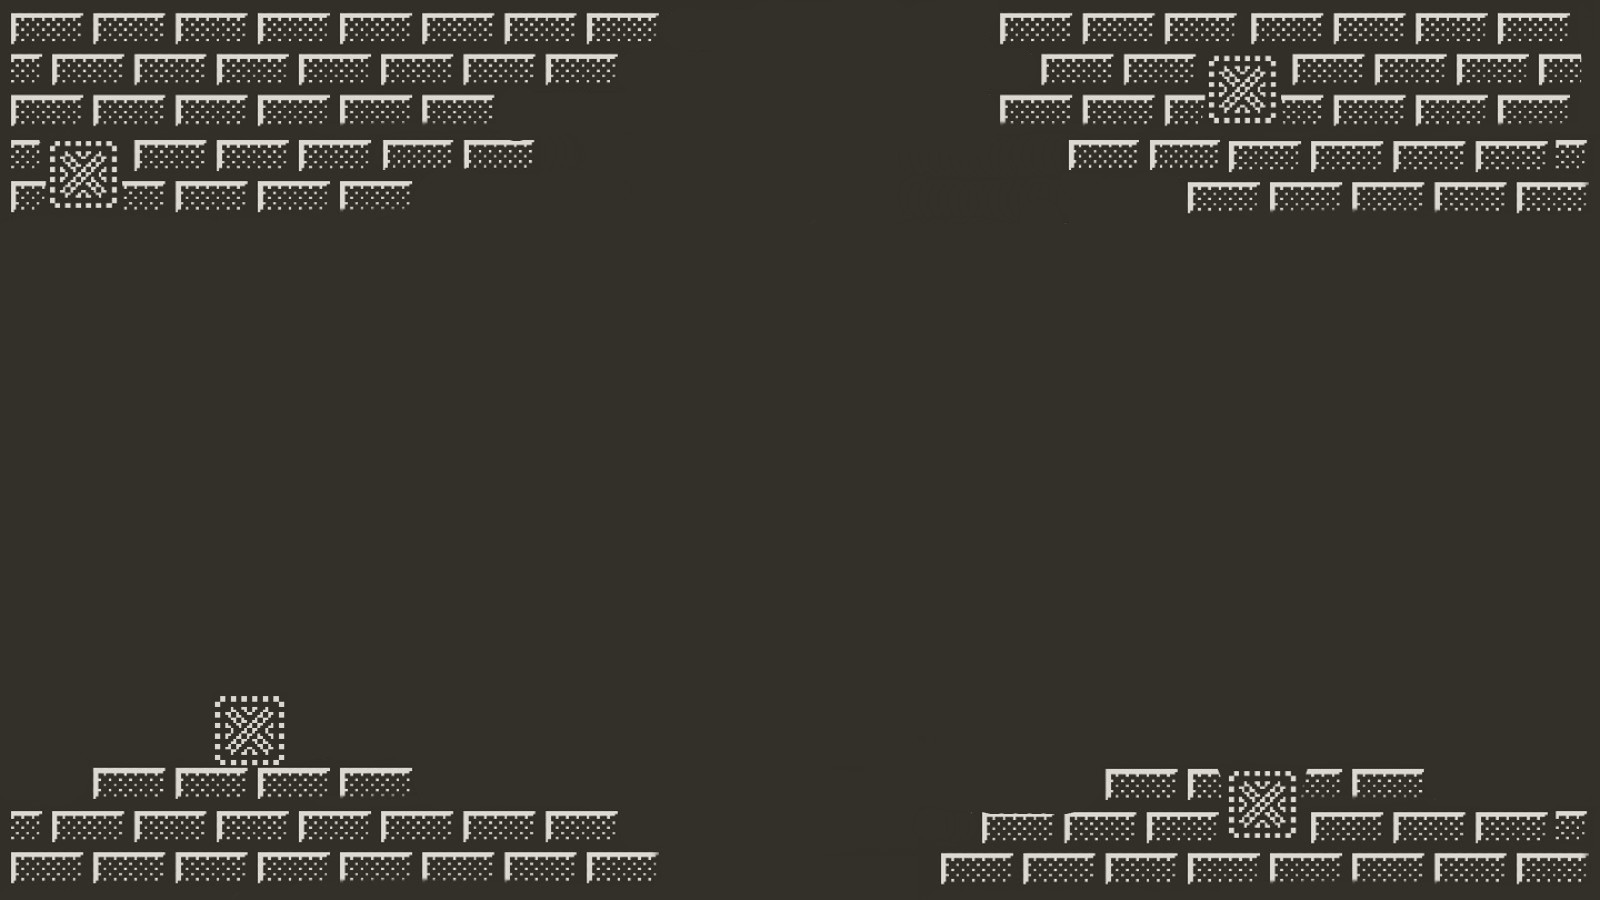
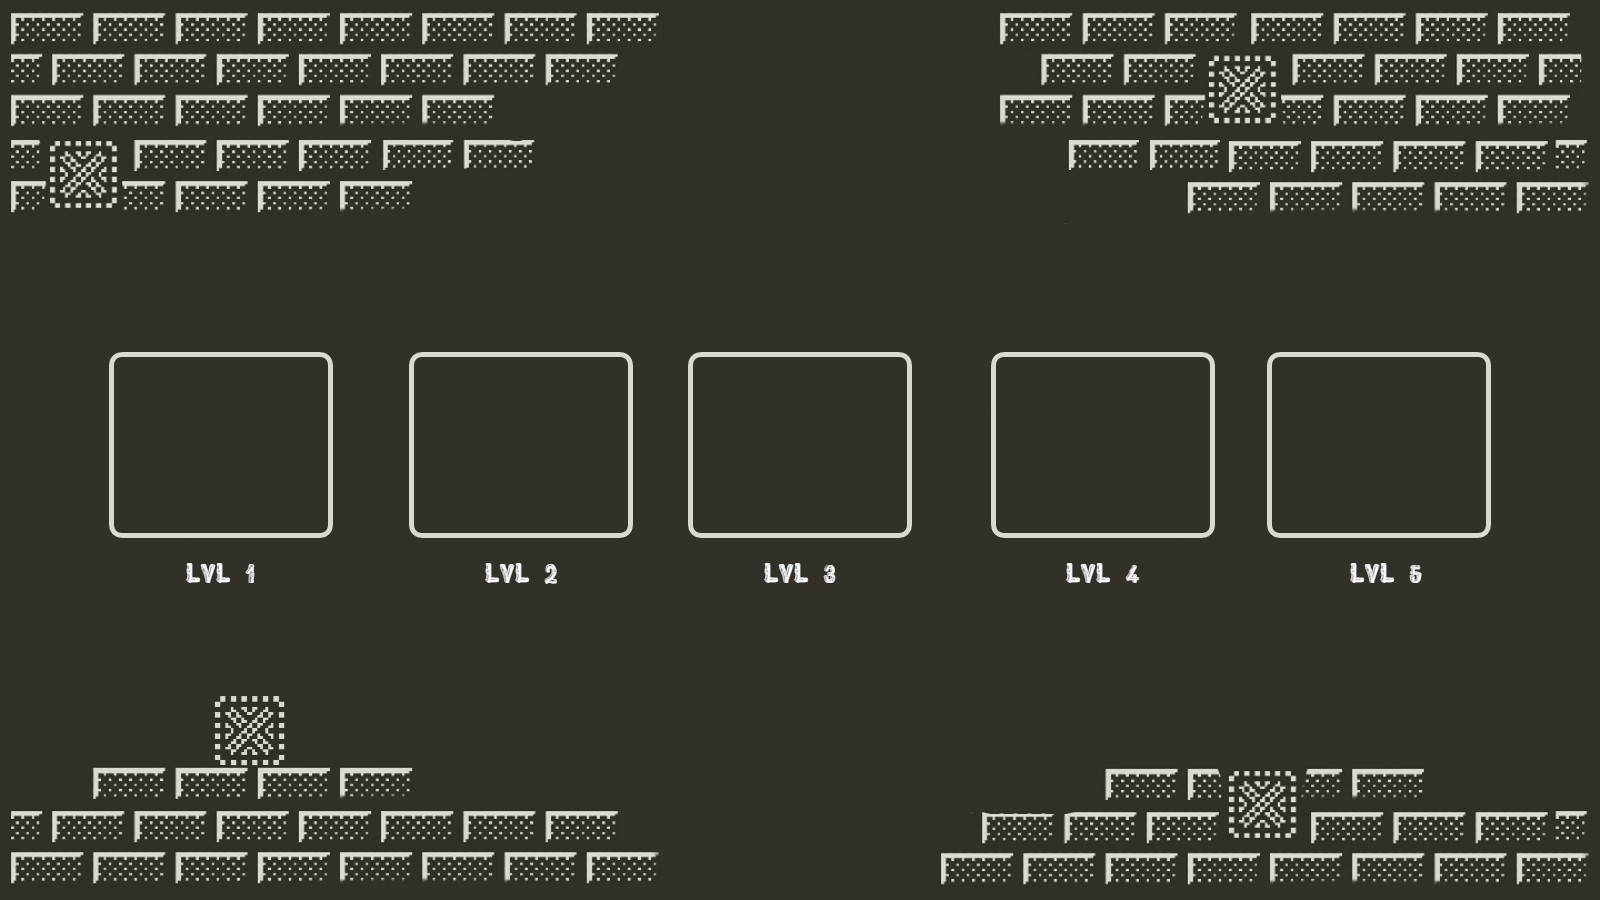
[ADD][FIX] Mecanica para guardar partidas como txt, ademas de la personaliozacion de la vista de elegir nivel

diff --git a/src/main/resources/cr/ac/una/datos/view/Styles.css b/src/main/resources/cr/ac/una/datos/view/Styles.css
@@ -43,7 +43,7 @@
 
 
 
-.image-button {
+.image-button, .image-button:pressed, .image-button:focused, .image-button:hover, .image-button:selected {
     -fx-background-image: url("../resources/btnPlay.png");
     -fx-background-repeat: no-repeat;
     -fx-background-size: contain;
@@ -56,6 +56,36 @@
     -fx-focus-color: transparent;
     -fx-faint-focus-color: transparent;
 }
+
+.imageExitMenu-button, .imageExitMenu-button:pressed, .imageExitMenu-button:focused, .imageExitMenu-button:hover, .imageExitMenu-button:selected {
+    -fx-background-image: url("../resources/btnExitMenu.png");
+    -fx-background-repeat: no-repeat;
+    -fx-background-size: contain;
+    -fx-background-position: center;
+    -fx-background-color: transparent;
+    -fx-border-color: transparent;
+    -fx-padding: 0;
+    -fx-background-radius: 10;
+    -fx-effect: dropshadow(gaussian, rgba(0, 0, 0, 0.75), 10, 0, 0, 2);
+    -fx-focus-color: transparent;
+    -fx-faint-focus-color: transparent;
+}
+
+.imageSavedMatches-button, .imageSavedMatches-button:pressed, .imageSavedMatches-button:focused, .imageSavedMatches-button:hover, .imageSavedMatches-button:selected {
+    -fx-background-image: url("../resources/btnSavedMatches.png");
+    -fx-background-repeat: no-repeat;
+    -fx-background-size: contain;
+    -fx-background-position: center;
+    -fx-background-color: transparent;
+    -fx-border-color: transparent;
+    -fx-padding: 0;
+    -fx-background-radius: 10;
+    -fx-effect: dropshadow(gaussian, rgba(0, 0, 0, 0.75), 10, 0, 0, 2);
+    -fx-focus-color: transparent;
+    -fx-faint-focus-color: transparent;
+}
+
+
 
 .main-backgroundGame {
     -fx-background-color: -fx-game-color;

diff --git a/src/main/java/cr/ac/una/datos/controller/LevelsController.java b/src/main/java/cr/ac/una/datos/controller/LevelsController.java
@@ -5,9 +5,7 @@ import cr.ac.una.datos.util.AppContext;
 import cr.ac.una.datos.util.FlowController;
 import cr.ac.una.datos.util.Mensaje;
 
-import java.io.BufferedReader;
-import java.io.FileReader;
-import java.io.IOException;
+import java.io.*;
 import java.net.URL;
 import java.util.ArrayList;
 import java.util.List;
@@ -16,6 +14,7 @@ import java.util.ResourceBundle;
 import javafx.fxml.FXML;
 import javafx.fxml.Initializable;
 import javafx.scene.control.Alert.AlertType;
+import javafx.scene.control.Button;
 import javafx.scene.image.Image;
 import javafx.scene.image.ImageView;
 import javafx.scene.layout.ColumnConstraints;
@@ -40,6 +39,13 @@ public class LevelsController extends Controller implements Initializable {
     private Integer gridPaneRowHeight = 55;
     private Game game;
 
+    //definir constantes con la ubicacion de cada uno de los niveles
+    private final String LEVEL1 = "src/main/resources/cr/ac/una/datos/resources/Levels/easy_level1.txt";
+    private final String LEVEL2 = "src/main/resources/cr/ac/una/datos/resources/Levels/easy_level2.txt";
+    private final String LEVEL3 = "src/main/resources/cr/ac/una/datos/resources/Levels/intermedium_level1.txt";
+    private final String LEVEL4 = "src/main/resources/cr/ac/una/datos/resources/Levels/intermedium_level2.txt";
+    private final String LEVEL5 = "src/main/resources/cr/ac/una/datos/resources/Levels/avanced_level1.txt";
+
 
     private int movementCounter = 0;
 
@@ -49,9 +55,28 @@ public class LevelsController extends Controller implements Initializable {
     @FXML
     private Text labelMovements;
 
+    @FXML
+    private Button btnSaveAndExit;
+
     @Override
     public void initialize() {
-        loadBoardFromFile("src/main/resources/cr/ac/una/datos/resources/Levels/avanced_level1.txt");
+
+        if ((int) AppContext.getInstance().get("level") == 1) {
+            loadBoardFromFile(LEVEL1);
+        }
+        if ((int) AppContext.getInstance().get("level") == 2) {
+            loadBoardFromFile(LEVEL2);
+        }
+        if ((int) AppContext.getInstance().get("level") == 3) {
+            loadBoardFromFile(LEVEL3);
+        }
+        if ((int) AppContext.getInstance().get("level") == 4) {
+            loadBoardFromFile(LEVEL4);
+        }
+        if ((int) AppContext.getInstance().get("level") == 5) {
+            loadBoardFromFile(LEVEL5);
+        }
+
         resizeGridPane(width, height);
         loadGridPane();
         game = new Game(board);
@@ -64,8 +89,8 @@ public class LevelsController extends Controller implements Initializable {
 
     @Override
     public void initialize(URL url, ResourceBundle rb) {
-        grpLevels.setFocusTraversable(true);  // Asegúrate de que el GridPane pueda recibir eventos de teclado
-        grpLevels.setOnKeyPressed(this::handleKeyPress);  // Asocia el método de manejo de teclas
+        grpLevels.setFocusTraversable(true);
+        grpLevels.setOnKeyPressed(this::handleKeyPress);
 
         if ((int) AppContext.getInstance().get("level") == 1) {
             labelLvl.setText("Nivel 1");
@@ -246,4 +271,36 @@ public class LevelsController extends Controller implements Initializable {
         System.out.println("Altura: " + height);
         System.out.println("Ancho: " + width);
     }
+
+
+    @FXML
+    private void handleSaveAndExit() {
+        saveCurrentGame();
+        FlowController.getInstance().goView("LevelsSelectorView");
+
+    }
+
+    private void saveCurrentGame() {
+        String saveDirectoryPath = "src/main/resources/cr/ac/una/datos/resources/Levels/saved_levels";
+        File directory = new File(saveDirectoryPath);
+        if (!directory.exists()) {
+            directory.mkdirs();
+        }
+
+        String saveFilePath = saveDirectoryPath + "/saved_game.txt";
+        try (BufferedWriter writer = new BufferedWriter(new FileWriter(saveFilePath))) {
+            for (List<Character> row : board) {
+                for (Character ch : row) {
+                    writer.write(ch);
+                }
+                writer.newLine();
+            }
+            System.out.println("Partida guardada en: " + saveFilePath);
+        } catch (IOException e) {
+            System.err.println("Error al guardar la partida: " + e.getMessage());
+            e.printStackTrace();
+        }
+
+    }
+
 }

diff --git a/src/main/java/cr/ac/una/datos/controller/LevelsSelectorController.java b/src/main/java/cr/ac/una/datos/controller/LevelsSelectorController.java
@@ -30,24 +30,20 @@ public class LevelsSelectorController extends Controller implements Initializabl
      * Initializes the controller class.
      */
 
-    
-    @FXML
-    private ImageView imgCover1;
-
-    @FXML
-    private ImageView imgCover2;
-
-    @FXML
-    private ImageView imgCover3;
-
-    @FXML
-    private ImageView imgCover4;
-
-    @FXML
-    private ImageView imgCover5;
-
     @FXML
     private ImageView imgLevel1;
+
+    @FXML
+    private ImageView imgLevel2;
+
+    @FXML
+    private ImageView imgLevel3;
+
+    @FXML
+    private ImageView imgLevel4;
+
+    @FXML
+    private ImageView imgLevel5;
 
     @FXML
     private Button btnExit;
@@ -62,7 +58,7 @@ public class LevelsSelectorController extends Controller implements Initializabl
     
     @Override
     public void initialize(){  
-        disableCover();
+//        disableCover();
     }
     
     @FXML
@@ -70,18 +66,19 @@ public class LevelsSelectorController extends Controller implements Initializabl
         if (event.getSource().equals(imgLevel1)) {
             AppContext.getInstance().set("level", 1);
         }
-        else if (event.getSource().equals(imgCover2)) {
+        else if (event.getSource().equals(imgLevel2)) {
             AppContext.getInstance().set("level", 2);
+            System.out.println("Level 2");
         }
-        else if (event.getSource().equals(imgCover3)) {
+        else if (event.getSource().equals(imgLevel3)) {
             AppContext.getInstance().set("level", 3);
         }
-        else if (event.getSource().equals(imgCover4)) {
+       else if (event.getSource().equals(imgLevel4)) {
             AppContext.getInstance().set("level", 4);
         }
-        else if (event.getSource().equals(imgCover5)) {
-            AppContext.getInstance().set("level", 5);
-        }
+       else if (event.getSource().equals(imgLevel5)) {
+           AppContext.getInstance().set("level", 5);
+       }
 
         FlowController.getInstance().goView("LevelsView");
     }
@@ -91,14 +88,19 @@ public class LevelsSelectorController extends Controller implements Initializabl
         // TODO
     }
     
-    private void disableCover(){
-         onFinishOut = () -> {
-            imgCover1.setDisable(true);
-        };
-        animationManager.animarFadeOut(imgCover1, onFinishOut);
-    }
+//    private void disableCover(){
+////         onFinishOut = () -> {
+////            imgCover1.setDisable(true);
+////        };
+////        animationManager.animarFadeOut(imgCover1, onFinishOut);
+////    }
 
     public void onActionBtnExit(ActionEvent event) {
         FlowController.getInstance().goView("StartMenuView");
     }
+
+
+
 }
+
+

diff --git a/src/main/java/cr/ac/una/datos/controller/StartMenuController.java b/src/main/java/cr/ac/una/datos/controller/StartMenuController.java
@@ -39,6 +39,12 @@ public class StartMenuController extends Controller implements Initializable{
     private MFXButton btnPlay;
 
     @FXML
+    private MFXButton btnExit;
+
+    @FXML
+    private MFXButton btnSavedMatches;
+
+    @FXML
     private ImageView imgAnimation;
 
     AnimationManager animationManager = AnimationManager.getInstance();
@@ -66,10 +72,19 @@ public class StartMenuController extends Controller implements Initializable{
     void onActionBtnPlay(ActionEvent event) {
 
         AppContext.getInstance().set("StartAnimation", false);
-
         FlowController.getInstance().goView("LevelsSelectorView");
     }
 
+
+    @FXML
+    void onActionBtnSavedMatches(ActionEvent event) {
+        //FlowController.getInstance().goView("SavedMatchesView");
+    }
+
+    @FXML
+    void onActionBtnExit(ActionEvent event) {
+        System.exit(0);
+    }
 
 
 
